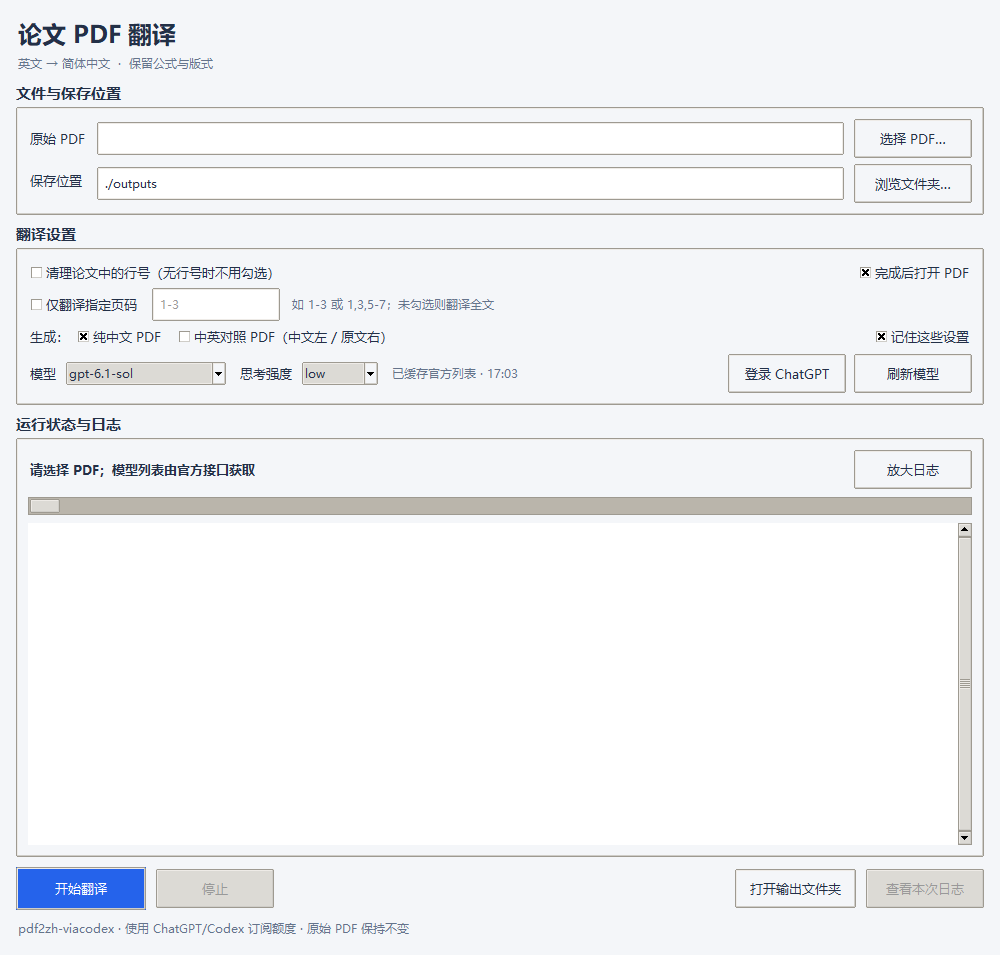
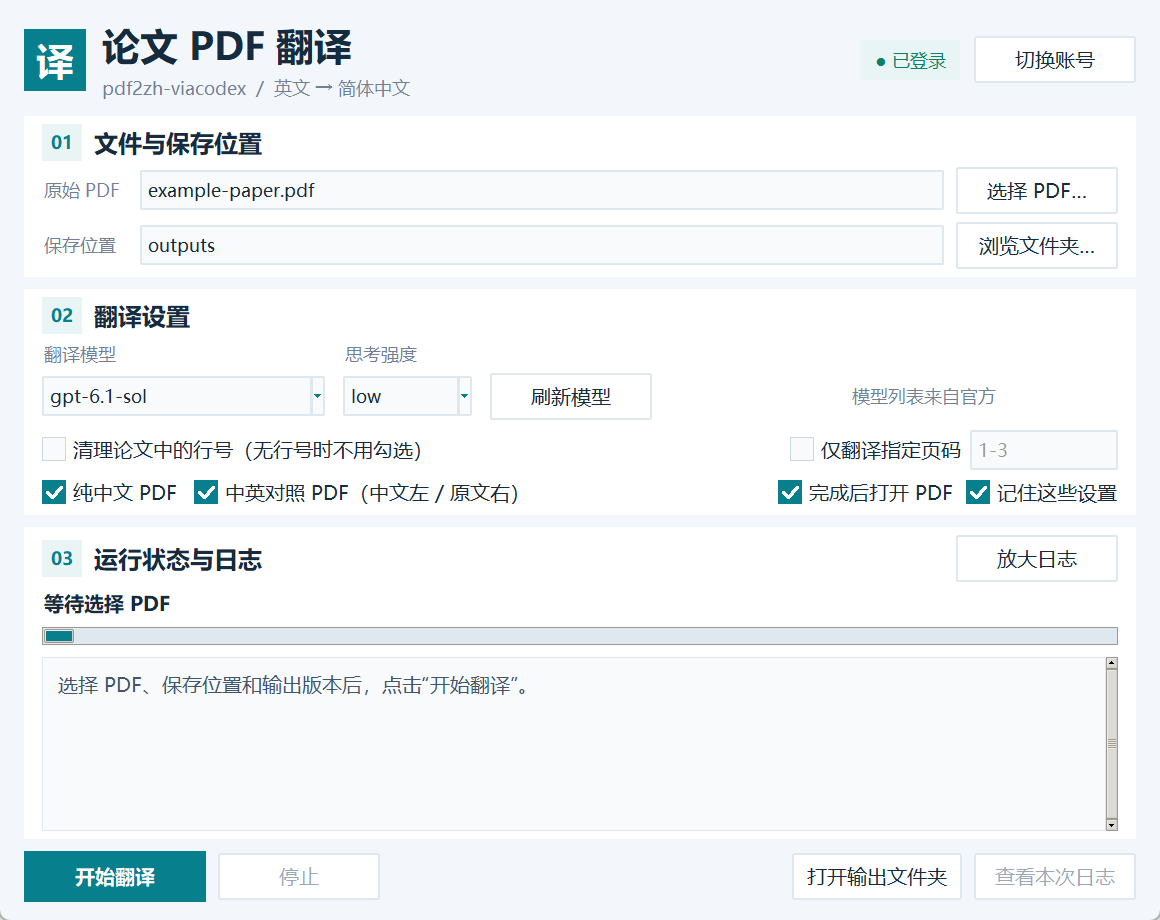
Update README screenshot for the refreshed interface

diff --git a/README.md b/README.md
@@ -4,9 +4,9 @@
 
 这是面向 Windows 10/11 的独立开源桌面工具。每位使用者在自己的电脑上登录自己的 ChatGPT 账号，通过账号可用的 Codex 模型翻译英文论文，无需配置 API Key。实际可用模型和额度由 OpenAI 与账号套餐决定；不是无限免费翻译，也不提供额度共享。
 
-![图形界面](docs/images/main-window.png)
+![新版浅色卡片界面](docs/images/main-window.png)
 
-截图仅展示界面，实际模型和思考强度以账号返回的官方列表为准。
+截图展示新版浅色卡片界面，文件和保存路径仅作示例。右上角显示登录状态，已登录时按钮变为“切换账号”；实际模型和思考强度以账号返回的官方列表为准。
 
 ## 功能
 
@@ -36,7 +36,7 @@
 4. 双击 **`翻译PDF.cmd`**，选择英文 PDF、保存位置、页码、行号清理及输出类型。
 5. 等官方模型目录加载完成后，选择模型和思考强度，点击“开始翻译”。
 
-界面的“登录 ChatGPT”按钮直接运行 `登录ChatGPT.cmd`，与双击脚本使用同一入口，脚本输出直接显示在界面日志中，不弹出短暂的命令窗口。每次点击都会打开新的浏览器授权，即使当前已经登录。原账号保留到新授权成功；成功后切换为本次授权的账号并刷新模型，取消或失败时原账号不变。等待授权时按钮变为“取消登录”，5 分钟未完成则自动超时；等待期间刷新模型、开始或继续翻译保持禁用，登录结束后恢复。成功切换前会在 `.runtime/codex-home/account-history/` 中保留旧登录的本地备份，该目录不会进入 Git 或源码包。
+界面的“登录 ChatGPT”按钮（已登录时显示“切换账号”）直接运行 `登录ChatGPT.cmd`，与双击脚本使用同一入口，脚本输出直接显示在界面日志中，不弹出短暂的命令窗口。每次点击都会打开新的浏览器授权，即使当前已经登录。原账号保留到新授权成功；成功后切换为本次授权的账号并刷新模型，取消或失败时原账号不变。等待授权时按钮变为“取消登录”，5 分钟未完成则自动超时；等待期间刷新模型、开始或继续翻译保持禁用，登录结束后恢复。成功切换前会在 `.runtime/codex-home/account-history/` 中保留旧登录的本地备份，该目录不会进入 Git 或源码包。
 
 在 PowerShell 中安装也可运行：
 
